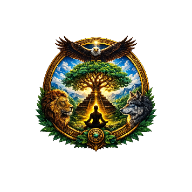
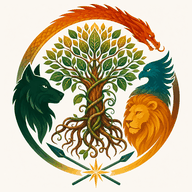
feat: novo ícone do PWA com o emblema dos quatro guardiões
O ícone instalado era um emblema diferente do logo do app (pintura
realista com pirâmide e figura meditando), então o app tinha duas
identidades: uma na tela do celular, outra na topbar e no login.
Agora os dois são o mesmo emblema.

- arte de origem versionada em assets-fonte/, fora de public/ para
  não entrar no precache do service worker
- scripts/gerar-icones.py gera os cinco arquivos a partir dela
- maskable com o emblema em 80%: o Android recorta o ícone na forma
  do tema do aparelho e só o centro é garantido; cheio, o anel e a
  cabeça do dragão seriam cortados
- paleta de 256 cores nos PNGs: precache 4719 -> 4475 KiB
- manifest: theme_color ainda era o roxo #7c3aed removido do resto do
  app, deixando uma faixa roxa na barra de status quando instalado;
  agora segue o forest-night da splash do index.html

diff --git a/src/config/app.ts b/src/config/app.ts
@@ -16,8 +16,11 @@ export const APP_CONFIG = {
   tagline: 'Cerimônias com medicinas sagradas, cura espiritual e despertar da consciência',
   
   // Cores do tema (usadas no PWA manifest e meta tags)
-  themeColor: '#7c3aed', // Roxo principal
-  backgroundColor: '#ffffff', // Branco — alinhado com o fundo do ícone PWA
+  // Só alimentam o manifest do PWA: theme_color pinta a barra de status quando o
+  // app roda instalado, background_color é o fundo da splash do Android.
+  // Ambos seguem o forest-night do index.html para não haver piscada de cor na abertura.
+  themeColor: '#0e1613',
+  backgroundColor: '#0e1613',
   
   // Contatos
   contacts: {

diff --git a/scripts/gerar-icones.py b/scripts/gerar-icones.py
@@ -1,0 +1,124 @@
+#!/usr/bin/env python3
+"""
+Gera todos os ícones do PWA a partir de uma única arte de origem.
+
+    python3 scripts/gerar-icones.py caminho/da/arte.png
+
+Opções:
+    --fundo auto|#RRGGBB   cor de fundo (padrão: auto = amostra do canto da arte)
+    --sem-corte            não recorta a moldura vazia em volta da arte
+
+Por que cada arquivo é diferente:
+
+- pwa-192 / pwa-512 ("any"): a arte quase inteira, com uma margem pequena.
+- pwa-512-maskable: o Android recorta o ícone na forma do tema do aparelho
+  (círculo, squircle, gota). Só os 80% centrais são garantidos — por isso a
+  arte entra reduzida, com o resto preenchido de cor sólida. Sem isso, o anel
+  externo do emblema é cortado no lançador.
+- apple-touch-icon: o iOS não respeita transparência, pinta de preto atrás.
+  Por isso este sai sempre opaco.
+"""
+
+import argparse
+import sys
+from pathlib import Path
+
+try:
+    from PIL import Image
+except ImportError:
+    sys.exit("Falta o Pillow. Instale com: pip install Pillow")
+
+RAIZ = Path(__file__).resolve().parent.parent
+PUBLIC = RAIZ / "public"
+
+# fração da largura ocupada pela arte em cada variante
+MARGEM = {"any": 0.96, "maskable": 0.80}
+
+
+def cor_de_fundo(img: Image.Image) -> tuple[int, int, int, int]:
+    """Amostra os quatro cantos; se forem iguais, é a cor de fundo da arte."""
+    l, a = img.size
+    cantos = [img.getpixel(p) for p in ((2, 2), (l - 3, 2), (2, a - 3), (l - 3, a - 3))]
+    if all(c[3] < 16 for c in cantos):  # arte com fundo transparente
+        return (255, 255, 255, 255)
+    r = sum(c[0] for c in cantos) // 4
+    g = sum(c[1] for c in cantos) // 4
+    b = sum(c[2] for c in cantos) // 4
+    return (r, g, b, 255)
+
+
+def recortar(img: Image.Image, fundo) -> Image.Image:
+    """Remove a moldura de cor uniforme em volta do emblema."""
+    from PIL import ImageChops
+
+    base = Image.new("RGBA", img.size, fundo)
+    caixa = ImageChops.difference(img.convert("RGBA"), base).convert("L").point(
+        lambda v: 255 if v > 12 else 0
+    ).getbbox()
+    if not caixa:
+        return img
+    # mantém o emblema centralizado: expande a caixa para ficar quadrada
+    x0, y0, x1, y1 = caixa
+    lado = max(x1 - x0, y1 - y0)
+    cx, cy = (x0 + x1) // 2, (y0 + y1) // 2
+    m = lado // 2
+    return img.crop((cx - m, cy - m, cx + m, cy + m))
+
+
+def compor(arte: Image.Image, lado: int, fracao: float, fundo, opaco: bool) -> Image.Image:
+    tela = Image.new("RGBA", (lado, lado), fundo if opaco else (0, 0, 0, 0))
+    d = int(lado * fracao)
+    red = arte.resize((d, d), Image.LANCZOS)
+    off = (lado - d) // 2
+    tela.paste(red, (off, off), red)
+    return tela
+
+
+def main() -> None:
+    p = argparse.ArgumentParser()
+    p.add_argument("origem", type=Path)
+    p.add_argument("--fundo", default="auto")
+    p.add_argument("--sem-corte", action="store_true")
+    args = p.parse_args()
+
+    if not args.origem.exists():
+        sys.exit(f"Arquivo não encontrado: {args.origem}")
+
+    arte = Image.open(args.origem).convert("RGBA")
+    if min(arte.size) < 512:
+        print(f"  aviso: origem tem {arte.size[0]}x{arte.size[1]}; o ideal é 1024x1024 ou mais")
+
+    if args.fundo == "auto":
+        fundo = cor_de_fundo(arte)
+    else:
+        h = args.fundo.lstrip("#")
+        fundo = (int(h[0:2], 16), int(h[2:4], 16), int(h[4:6], 16), 255)
+    print(f"  fundo: #{fundo[0]:02x}{fundo[1]:02x}{fundo[2]:02x}")
+
+    if not args.sem_corte:
+        antes = arte.size
+        arte = recortar(arte, fundo)
+        print(f"  recorte: {antes[0]}x{antes[1]} -> {arte.size[0]}x{arte.size[1]}")
+
+    saidas = [
+        ("pwa-192x192.png", 192, MARGEM["any"], True),
+        ("pwa-512x512.png", 512, MARGEM["any"], True),
+        ("pwa-512x512-maskable.png", 512, MARGEM["maskable"], True),
+        ("apple-touch-icon.png", 180, MARGEM["any"], True),
+        ("favicon.png", 32, 1.0, True),
+    ]
+
+    for nome, lado, fracao, opaco in saidas:
+        img = compor(arte, lado, fracao, fundo, opaco)
+        # Paleta de 256 cores: os ícones entram no precache do service worker, e
+        # numa arte ilustrada isso corta ~2/3 do peso sem diferença visível.
+        img = img.convert("RGB").quantize(
+            colors=256, method=Image.MEDIANCUT, dither=Image.FLOYDSTEINBERG
+        )
+        destino = PUBLIC / nome
+        img.save(destino, "PNG", optimize=True)
+        print(f"  ok  {nome:28} {lado}x{lado}  {destino.stat().st_size // 1024} KB")
+
+
+if __name__ == "__main__":
+    main()
